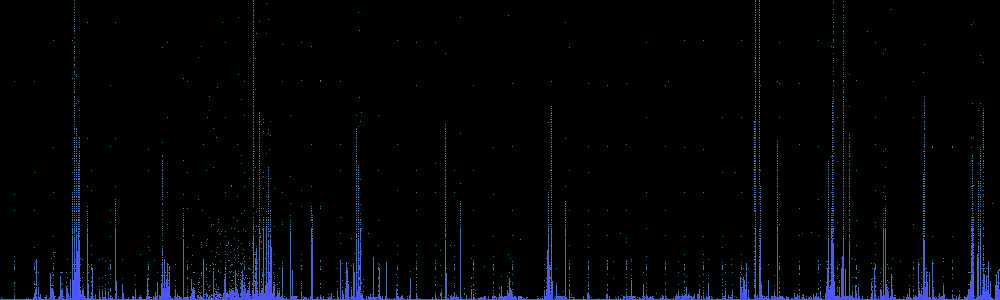
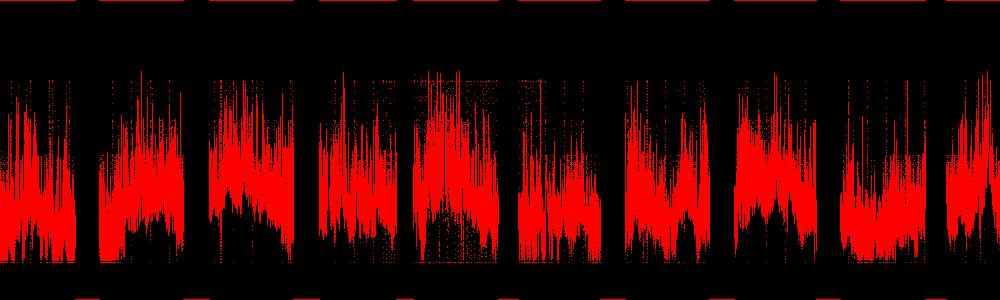
Fixed rendering issues, added high channel values
Former-commit-id: 4736e580fab22670c45d7a28905216766fabc96f

diff --git a/src/timelines/renderer/DiagramRenderer.java b/src/timelines/renderer/DiagramRenderer.java
@@ -3,32 +3,29 @@ package timelines.renderer;
 import java.awt.Color;
 import java.awt.image.BufferedImage;
 import java.io.File;
-import java.io.IOException;
 import java.nio.ByteBuffer;
 import java.util.Calendar;
 import java.util.Date;
 
 import javax.imageio.ImageIO;
 
-import timelines.database.MemoryMappedFile;
+import timelines.database.TimelinesDB;
 import timelines.importer.downloader.GoesOldFullDownloader;
 import timelines.utils.TimeUtils;
 
 public class DiagramRenderer {
 
-  private MemoryMappedFile lowChannelDB;
-  private MemoryMappedFile highChannelDB;
+//  private MemoryMappedFile lowChannelDB;
+//  private MemoryMappedFile highChannelDB;
+  private TimelinesDB timelinesDB;
 
   public static final int IMAGE_HEIGHT = 300;
   public static final int IMAGE_WIDTH = 1000;
 
   public DiagramRenderer() throws Exception {
-    try {
-      lowChannelDB = new MemoryMappedFile("res/dbL");
-      highChannelDB = new MemoryMappedFile("res/dbH");
-    } catch (IOException e) {
-      throw new Exception("Database could not be accessed", e);
-    }
+//      lowChannelDB = new MemoryMappedFile("res/dbL");
+//      highChannelDB = new MemoryMappedFile("res/dbH");
+    timelinesDB = new TimelinesDB();
   }
 
   public BufferedImage getDiagramForTimespan(Date from, Date to) throws Exception {
@@ -40,47 +37,55 @@ public class DiagramRenderer {
       throw new Exception("Can't access more than Integer.MAX_VALUE entries at once");
     }
 
-    byte[] dataL = lowChannelDB.read(startIndex, (int) length);
+    ByteBuffer bufferL = timelinesDB.getLowChannelData(from, to); // lowChannelDB.read(startIndex, (int) length);
+    ByteBuffer bufferH = timelinesDB.getHighChannelData(from, to);
 
-    ByteBuffer bufferL = ByteBuffer.wrap(dataL);
+//    ByteBuffer bufferL = ByteBuffer.wrap(dataL);
 
-    float rangeStart = 0.0000000000005f;
-    rangeStart = (float) 1.0E-12;
-    float rangeEnd   = 0.00000002f;
-    rangeEnd = (float) 6.745E-7;
-    float rangeOnePercent = rangeEnd - rangeStart / 100;
+    float rangeStart = 10E-11f;
+    float rangeEnd   = 10E-3f;
+    float scaling = (float) (IMAGE_HEIGHT / (Math.log10(rangeEnd) - Math.log10(rangeStart)));
+    int offset =  (int)(Math.abs(scaling * Math.log10(rangeEnd)));
+    System.out.println("offset: " + offset);
+    System.out.println("scaling: " + scaling);
+    System.out.println("min: " + (Math.abs(scaling * (Math.log10(rangeStart))) - offset));
+    System.out.println("max: " + (Math.abs(scaling * (Math.log10(rangeEnd))) - offset));
 
-    float widthOnePercent = dataL.length / 4 / 100;
-
+    float widthOnePercent = bufferL.remaining() / Float.BYTES / 100;
 
     // draw the image
     BufferedImage image = new BufferedImage(IMAGE_WIDTH, IMAGE_HEIGHT, BufferedImage.TYPE_INT_ARGB);
-    int prevIndex = 0;
-    int index = 0;
-    System.out.println(dataL.length);
-    while (bufferL.hasRemaining()) {
-      float val = bufferL.getFloat();
 
-//      System.out.println(index % IMAGE_WIDTH);
+    int index = 0;
+    while (bufferL.hasRemaining()) {
+
+      float valL = bufferL.getFloat();
+      float valH = bufferH.getFloat();
       int posX = (int) (index / widthOnePercent * 10);
-      if (posX != prevIndex && posX != prevIndex + 1) {
-        System.out.println(prevIndex + " " + posX);
-      } else {
-        prevIndex = posX;
-      }
-      int posY = Math.min(IMAGE_HEIGHT - 1, IMAGE_HEIGHT - (int) (val / rangeOnePercent * 3f));
+
+      int posYL = getPosY(valL, scaling, offset);
+      int posYH = getPosY(valH, scaling, offset);
+
+//      System.out.println("val: " + val + " pos y: " + posY);
 //      System.out.println(val + " " + posY);
       try {
-        Color current = new Color(image.getRGB(posX, posY));
-        image.setRGB(posX, posY, new Color(255, 0, 0, Math.min(255, current.getAlpha() + 1)).getRGB());
+        image.setRGB(posX, posYL, Color.RED.getRGB());
+        image.setRGB(posX, posYH, Color.BLUE.getRGB());
       } catch (ArrayIndexOutOfBoundsException e) {
         // e.printStackTrace();
-        System.out.println("erronous x: " + posX + " y: " + posY + " val: " + val);
+        System.out.println("erronous x: " + posX + " y: " + posYL + " val: " + valL);
       }
       index ++;
     }
 
     return image;
+  }
+
+  private int getPosY(Float f, float scaling, float offset) {
+    if (f != Float.NaN && f != 0) {
+      return (int) Math.min(299, (Math.abs(scaling * (Math.log10(f))) - offset));
+    }
+    return 299;
   }
 
   public static void main(String[] args) throws Exception {
@@ -93,8 +98,8 @@ public class DiagramRenderer {
 
     BufferedImage image = renderer.getDiagramForTimespan(TimeUtils.fromString("1992-01-01", "yyyy-MM-dd"), TimeUtils.fromString("1993-01-01", "yyyy-MM-dd"));
 
-    File file = new File("res/testRender.jpg");
-    ImageIO.write(image, "jpg", file);
+    File file = new File("res/testRender.png");
+    ImageIO.write(image, "png", file);
 
   }
 
